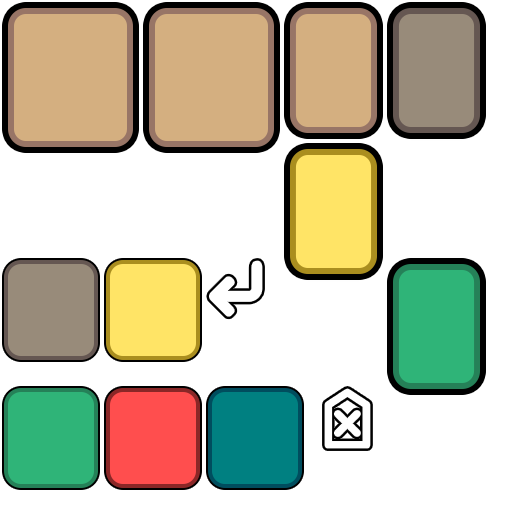
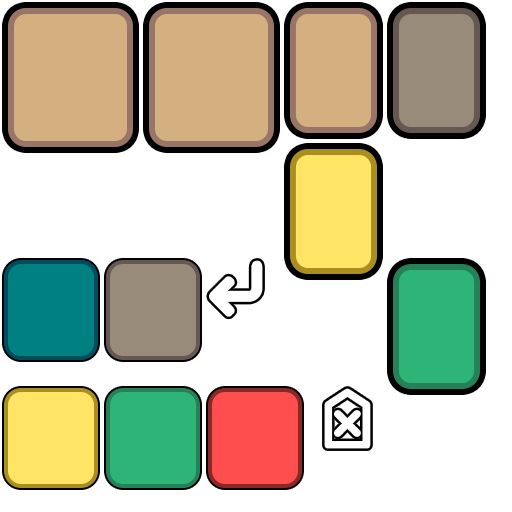
fix: guess the word bug

Changed region(s): [[0.0, 0.75, 0.5938, 0.9688], [0.0, 0.5, 0.4062, 0.7188]]

diff --git a/Games/GuessTheWord/scripts/objRefTable.js b/Games/GuessTheWord/scripts/objRefTable.js
@@ -116,6 +116,7 @@ self.C3_JsPropNameTable = [
 	{VirtualEnter: 0},
 	{letter: 0},
 	{green: 0},
+	{yellow: 0},
 	{VirtualKey: 0},
 	{Letter: 0},
 	{guessNo: 0},
